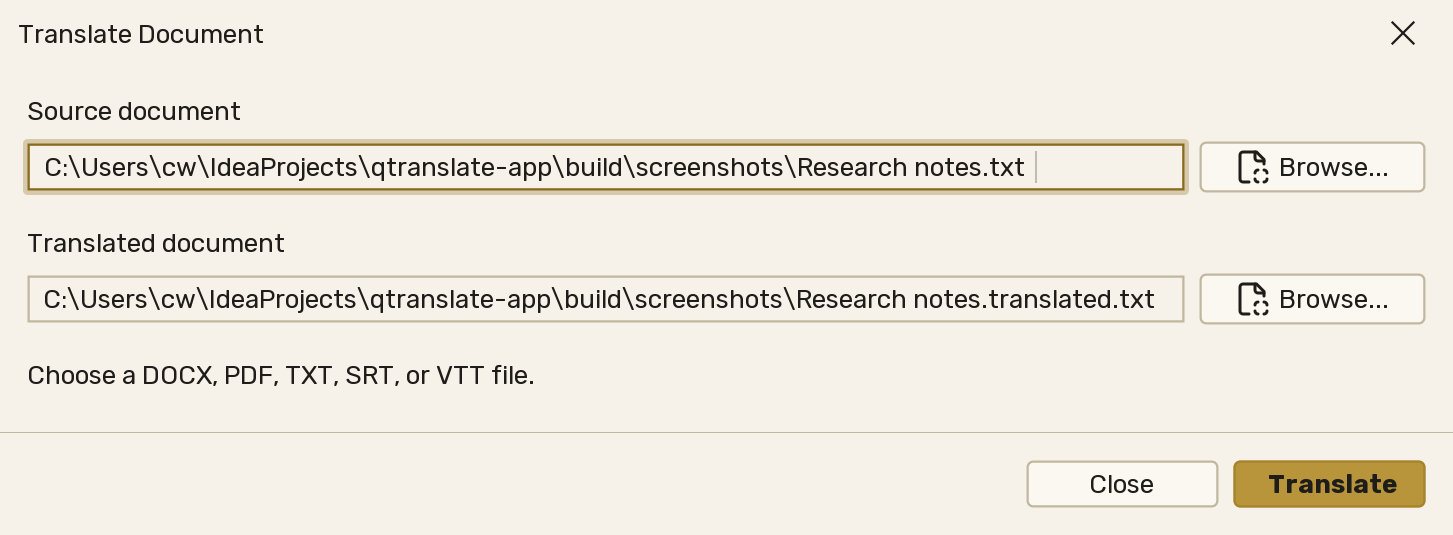
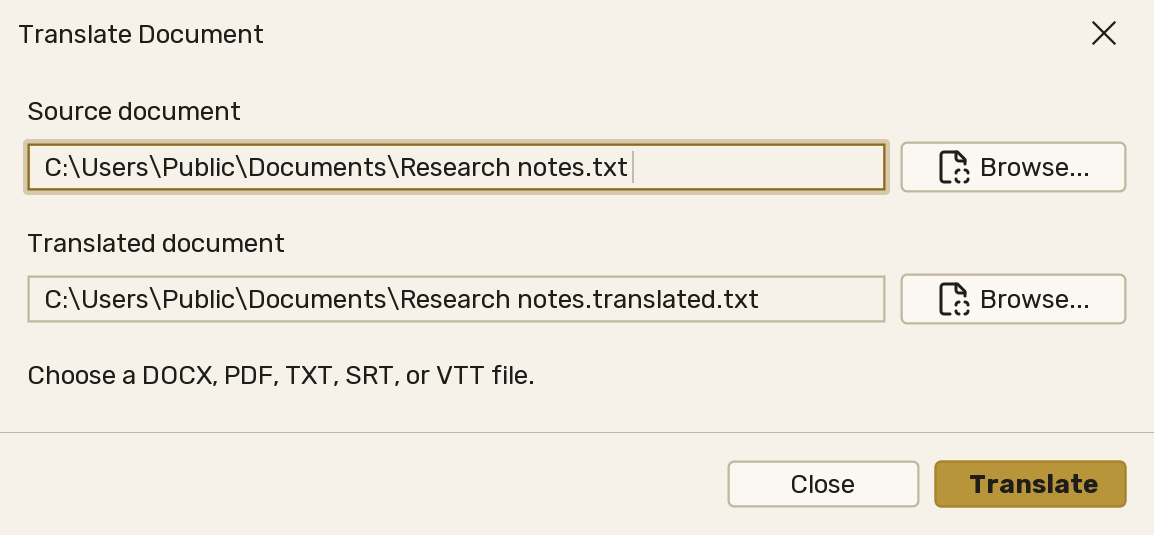
chore(release): prepare 1.5.0-rc.1 (#316)

diff --git a/app/src/main/kotlin/com/github/ahatem/qtranslate/app/screenshots/ScreenshotMain.kt b/app/src/main/kotlin/com/github/ahatem/qtranslate/app/screenshots/ScreenshotMain.kt
@@ -100,7 +100,9 @@ fun main(args: Array<String>): Unit = runBlocking {
     } ?: logger.warn("No services became available; shots will show the empty state.")
 
     with(Shots(deps, outputDir, logger)) {
-        if (System.getenv("QTRANSLATE_SCREENSHOT_SCENES") == "selector") {
+        if (System.getenv("QTRANSLATE_SCREENSHOT_SCENES") == "document") {
+            documentTranslation()
+        } else if (System.getenv("QTRANSLATE_SCREENSHOT_SCENES") == "selector") {
             selectorAudit()
             selectorDensityAudit()
         } else if (System.getenv("QTRANSLATE_SCREENSHOT_SCENES") == "presentation") {
@@ -346,7 +348,9 @@ private class Shots(
     suspend fun documentTranslation() {
         start(Scenes.classic(Scenes.LIGHT))
         invokeAppAction("TRANSLATE_DOCUMENT")
-        val sample = File(outputDir, "Research notes.txt").apply {
+        // The path is visible in the capture, so QTRANSLATE_SCREENSHOT_DOCS can point it at a neutral folder.
+        val sampleDir = System.getenv("QTRANSLATE_SCREENSHOT_DOCS")?.let(::File)?.also(File::mkdirs) ?: outputDir
+        val sample = File(sampleDir, "Research notes.txt").apply {
             writeText("Peristalsis moves food through the digestive tract by rhythmic contraction of smooth muscle.\n")
         }
         onUi {

diff --git a/core/src/main/kotlin/com/github/ahatem/qtranslate/core/shared/AppConstants.kt b/core/src/main/kotlin/com/github/ahatem/qtranslate/core/shared/AppConstants.kt
@@ -10,7 +10,7 @@ object AppConstants {
     // ============================================================
 
     /** Exact release identity used by About and the updater; candidate and tag builds validate it. */
-    const val APP_VERSION = "1.4.1"
+    const val APP_VERSION = "1.5.0-rc.1"
 
     // ============================================================
     // Timing

diff --git a/CHANGELOG.md b/CHANGELOG.md
@@ -14,7 +14,7 @@ Versions follow [Semantic Versioning](https://semver.org/).
 - **Parallel translation comparison.** Configure a primary translator and one or more secondary translators as a translator set, and see every result side by side in the new Comparison layout — useful for catching an odd phrasing or checking one engine's output against another
 - **Hotkey presets.** Switch the whole hotkey scheme between **Legacy QTranslate** and **Modern** from one dropdown, or customize individual bindings freely — QTranslate tracks which preset (if any) your current bindings match and shows **Custom** the moment you diverge
 - **Keep the main window on top.** A small pin next to the Settings gear keeps QTranslate above other windows until you unpin it. It's a per-session choice, not a saved setting
-- Image Search now offers a provider picker in both the docked and floating views, the same way Dictionary already did — it stays hidden until a second Image Search plugin is actually installed
+- Image Search shows which provider supplied the results in both the docked and floating views, and turns that into a provider picker as soon as a second Image Search plugin is installed, the same way Dictionary already did
 - **Indonesian**, contributed by [@Yoruxyv](https://github.com/Yoruxyv); **Ukrainian**, contributed by [@AOgit](https://github.com/AOgit) and [@kopejkin](https://github.com/kopejkin); **Traditional Chinese**, contributed by [@afunnyfrog](https://github.com/afunnyfrog); and **Korean**, translated by [@Apious](https://github.com/Apious) — bringing the interface to 18 bundled locale files
 
 ### Changed
@@ -26,9 +26,9 @@ Versions follow [Semantic Versioning](https://semver.org/).
 - **Typography defaults modernized.** New installations default to Inter for the interface and editor font, with a platform-resolved fallback for scripts the interface font doesn't cover, replacing the previous Rubik/bundled-Arabic-font defaults. Existing configurations keep whatever font they already had
 - **Clean-install defaults are more deliberate per service role.** Translator and TTS stay on Google; Spell Checker and Dictionary now default to System Spell Checker and Wiktionary, since Google's versions of both depend on an unofficial, no-fallback endpoint that can be rate-limited independently of Translator's own; OCR now defaults to System OCR rather than a Google option that never actually registers without a Vision API key. Existing configurations are unaffected
 - **Dictionary auto-lookup is a checkbox plus a choice, not a three-way dropdown that hid "off" as one of its own values.** The floating popup's identical cryptic toggle is gone the same way
-- The enlarged view in Image Search now loads the full-resolution picture instead of the same thumbnail as the grid, with Previous/Next buttons when there's more than one result to browse
-- The Classic service row gained a one-click "all services" menu for anything scrolled out of view, its spacing now follows the display's zoom level, and every button in it is reachable from the keyboard
-- Settings pages have slightly more breathing room, and that spacing now follows the display's zoom level correctly instead of staying a fixed size at 125%/150%/200%
+- The enlarged view in Image Search is now a proper viewer: it loads the full-resolution picture instead of the grid thumbnail, shows the source and attribution, and lets you step through the other results
+- **The Classic service row no longer scrolls.** The active translator always stays visible, complete one-click buttons fill the available width, and any extra services collect under a single **More** menu, so there are no clipped buttons or scroll arrows. Keyboard access, right-to-left layout and display scaling are preserved
+- Settings spacing now scales correctly with the display's zoom level while keeping the compact desktop layout, instead of staying fixed at 125%/150%/200%
 - **Release packaging hardened.** The portable build now enforces a maximum bytecode version so it stays runnable on the oldest supported Java runtime, and every release artifact — checksums, metadata, plugin inventory, bundled native helpers — is verified before publishing
 - The updater now compares versions using full SemVer precedence instead of ignoring prerelease suffixes, so a stable release and a same-numbered prerelease (e.g. `1.5.0` vs `1.5.0-rc.1`) are ordered correctly
 

diff --git a/docs/images/gallery/README.md b/docs/images/gallery/README.md
@@ -37,3 +37,6 @@ the Classic selector at two widths and Settings at 100%. The regular run include
 candidate set and Settings at 200%.
 Use `QTRANSLATE_SCREENSHOT_SCENES=selector` to capture only the Classic selector audit at 100%
 and 200%, plus RTL and light theme.
+Use `QTRANSLATE_SCREENSHOT_SCENES=document` to capture only the document dialog. Its file paths are
+visible in the image, so also set `QTRANSLATE_SCREENSHOT_DOCS` to a neutral folder such as
+`C:\Users\Public\Documents` first.
